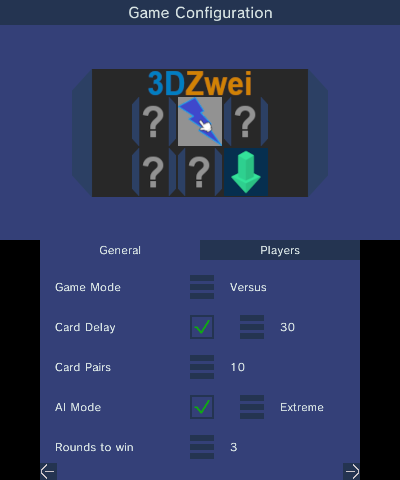
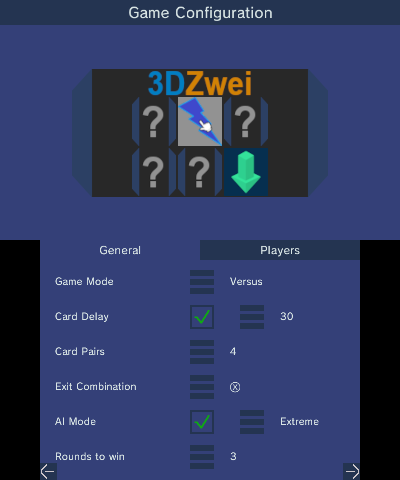
Add ExitOverlay to set a combination to exit the game.
I'm too lazy to add a proper overlay right now, but this SHOULD work as a base.

diff --git a/3ds/source/Overlays/Game/GameSettings.cpp b/3ds/source/Overlays/Game/GameSettings.cpp
@@ -33,6 +33,7 @@
 #include "GameSettings.hpp"
 
 /* Inputs. */
+#include "ExitCombination.hpp"
 #include "Keyboard.hpp"
 #include "Numpad.hpp"
 
@@ -132,6 +133,13 @@ void GameSettings::OK() { this->Done = true; };
 void GameSettings::Cancel() { this->Params.CancelGame = true, this->Done = true; };
 
 
+/* Set the game's exit combination. */
+void GameSettings::SetExitCombi() {
+	std::unique_ptr<ExitCombination> Ovl = std::make_unique<ExitCombination>(this->Params.ExitCombination);
+	this->Params.ExitCombination = Ovl->Action();
+};
+
+
 /*
 	Selects the Character Picture.
 
@@ -218,63 +226,68 @@ void GameSettings::Draw(const bool IsSetting) {
 	/* Only draw General Tab, if the Tab is larger as -320. */
 	if (this->T1Offs > -320) {
 		/* Game Mode. */
-		Gui::DrawString(15 + this->T1Offs, 40 - (Lang::Get("GAME_SETTINGS_GM").length() / 25 * 10 / 2), 0.45f, TEXT_WHITE, Lang::Get("GAME_SETTINGS_GM"), 125, 15, nullptr, C2D_WordWrap);
-		Gui::DrawSprite(GFX::Sprites, sprites_stripe_idx, 150 + this->T1Offs, 35);
+		Gui::DrawString(15 + this->T1Offs, this->GeneralPos[2].Y + 5 - (Lang::Get("GAME_SETTINGS_GM").length() / 25 * 10 / 2), 0.4f, TEXT_WHITE, Lang::Get("GAME_SETTINGS_GM"), 125, 15, nullptr, C2D_WordWrap);
+		Gui::DrawSprite(GFX::Sprites, sprites_stripe_idx, 150 + this->T1Offs, this->GeneralPos[2].Y);
 
 		switch(this->Params.GameMode) {
 			case GameSettings::GameModes::Versus:
-				Gui::DrawString(190 + this->T1Offs, 40, 0.45f, TEXT_WHITE, Lang::Get("GAME_SETTINGS_GM_NORMAL"), 120);
+				Gui::DrawString(190 + this->T1Offs, this->GeneralPos[2].Y + 5, 0.4f, TEXT_WHITE, Lang::Get("GAME_SETTINGS_GM_NORMAL"), 120);
 				break;
 
 			case GameSettings::GameModes::Solo:
-				Gui::DrawString(190 + this->T1Offs, 40, 0.45f, TEXT_WHITE, Lang::Get("GAME_SETTINGS_GM_TRIES"), 120);
+				Gui::DrawString(190 + this->T1Offs, this->GeneralPos[2].Y + 5, 0.4f, TEXT_WHITE, Lang::Get("GAME_SETTINGS_GM_TRIES"), 120);
 				break;
 		};
 
 
 		/* Using Card Delay. */
-		Gui::DrawString(15 + this->T1Offs, 80 - (Lang::Get("GAME_SETTINGS_CARD_DELAY").length() / 25 * 10 / 2), 0.45f, TEXT_WHITE, Lang::Get("GAME_SETTINGS_CARD_DELAY"), 125, 15, nullptr, C2D_WordWrap);
-		GFX::DrawCheckbox(150 + this->T1Offs, 75, this->Params.CardDelayUsed);
+		Gui::DrawString(15 + this->T1Offs, this->GeneralPos[3].Y + 5 - (Lang::Get("GAME_SETTINGS_CARD_DELAY").length() / 25 * 10 / 2), 0.4f, TEXT_WHITE, Lang::Get("GAME_SETTINGS_CARD_DELAY"), 125, 15, nullptr, C2D_WordWrap);
+		GFX::DrawCheckbox(150 + this->T1Offs, this->GeneralPos[3].Y, this->Params.CardDelayUsed);
 
 		/* Card Delay Value. */
 		if (this->Params.CardDelayUsed) { // Only show if Card Delay enabled.
-			Gui::DrawSprite(GFX::Sprites, sprites_stripe_idx, 200 + this->T1Offs, 75);
-			Gui::DrawString(240 + this->T1Offs, 80, 0.45f, TEXT_WHITE, std::to_string(this->Params.CardDelay));
+			Gui::DrawSprite(GFX::Sprites, sprites_stripe_idx, 200 + this->T1Offs, this->GeneralPos[3].Y);
+			Gui::DrawString(240 + this->T1Offs, this->GeneralPos[3].Y + 5, 0.4f, TEXT_WHITE, std::to_string(this->Params.CardDelay));
 		}
 
 		/* Card Pairs. */
-		Gui::DrawString(15 + this->T1Offs, 120 - (Lang::Get("GAME_SETTINGS_CARD_PAIRS").length() / 25 * 10 / 2), 0.45f, TEXT_WHITE, Lang::Get("GAME_SETTINGS_CARD_PAIRS"), 125, 15, nullptr, C2D_WordWrap);
-		Gui::DrawSprite(GFX::Sprites, sprites_stripe_idx, 150 + this->T1Offs, 115);
-		Gui::DrawString(190 + this->T1Offs, 120, 0.45f, TEXT_WHITE, std::to_string(Utils::Cards.size()));
+		Gui::DrawString(15 + this->T1Offs, this->GeneralPos[5].Y + 5 - (Lang::Get("GAME_SETTINGS_CARD_PAIRS").length() / 25 * 10 / 2), 0.4f, TEXT_WHITE, Lang::Get("GAME_SETTINGS_CARD_PAIRS"), 125, 15, nullptr, C2D_WordWrap);
+		Gui::DrawSprite(GFX::Sprites, sprites_stripe_idx, 150 + this->T1Offs, this->GeneralPos[5].Y);
+		Gui::DrawString(190 + this->T1Offs, this->GeneralPos[5].Y + 5, 0.4f, TEXT_WHITE, std::to_string(Utils::Cards.size()));
+
+		/* Exit Combination. */
+		Gui::DrawString(15 + this->T1Offs, this->GeneralPos[6].Y + 5 - (Lang::Get("GAME_SETTINGS_EXIT_COMBINATION").length() / 25 * 10 / 2), 0.4f, TEXT_WHITE, Lang::Get("GAME_SETTINGS_EXIT_COMBINATION"), 125, 15, nullptr, C2D_WordWrap);
+		Gui::DrawSprite(GFX::Sprites, sprites_stripe_idx, 150 + this->T1Offs, this->GeneralPos[6].Y);
+		Gui::DrawString(190 + this->T1Offs, this->GeneralPos[6].Y + 5, 0.45f, TEXT_WHITE, Utils::GetCombiString(this->Params.ExitCombination), 120);
 
 		/* Using AI. */
 		if (this->Params.GameMode == GameSettings::GameModes::Versus) { // Only available in Versus Mode.
-			Gui::DrawString(15 + this->T1Offs, 160 - (Lang::Get("GAME_SETTINGS_AI_METHOD").length() / 25 * 10 / 2), 0.45f, TEXT_WHITE, Lang::Get("GAME_SETTINGS_AI_METHOD"), 125, 15, nullptr, C2D_WordWrap);
-			GFX::DrawCheckbox(150 + this->T1Offs, 155, this->Params.AIUsed);
+			Gui::DrawString(15 + this->T1Offs, this->GeneralPos[7].Y + 5 - (Lang::Get("GAME_SETTINGS_AI_METHOD").length() / 25 * 10 / 2), 0.4f, TEXT_WHITE, Lang::Get("GAME_SETTINGS_AI_METHOD"), 125, 15, nullptr, C2D_WordWrap);
+			GFX::DrawCheckbox(150 + this->T1Offs, this->GeneralPos[7].Y, this->Params.AIUsed);
 
 			/* AI Method. */
 			if (this->Params.AIUsed) { // Only show if AI enabled.
-				Gui::DrawSprite(GFX::Sprites, sprites_stripe_idx, 200 + this->T1Offs, 155);
+				Gui::DrawSprite(GFX::Sprites, sprites_stripe_idx, 200 + this->T1Offs, this->GeneralPos[7].Y);
 
 				switch(this->Params.Method) {
 					case StackMem::AIMethod::Random:
-						Gui::DrawString(240 + this->T1Offs, 160, 0.45f, TEXT_WHITE, Lang::Get("GAME_SETTINGS_AI_RANDOM"), 70);
+						Gui::DrawString(240 + this->T1Offs, this->GeneralPos[7].Y + 5, 0.4f, TEXT_WHITE, Lang::Get("GAME_SETTINGS_AI_RANDOM"), 70);
 						break;
 
 					case StackMem::AIMethod::Hard:
-						Gui::DrawString(240 + this->T1Offs, 160, 0.45f, TEXT_WHITE, Lang::Get("GAME_SETTINGS_AI_HARD"), 70);
+						Gui::DrawString(240 + this->T1Offs, this->GeneralPos[7].Y + 5, 0.4f, TEXT_WHITE, Lang::Get("GAME_SETTINGS_AI_HARD"), 70);
 						break;
 
 					case StackMem::AIMethod::Extreme:
-						Gui::DrawString(240 + this->T1Offs, 160, 0.45f, TEXT_WHITE, Lang::Get("GAME_SETTINGS_AI_EXTREME"), 70);
+						Gui::DrawString(240 + this->T1Offs, this->GeneralPos[7].Y + 5, 0.4f, TEXT_WHITE, Lang::Get("GAME_SETTINGS_AI_EXTREME"), 70);
 						break;
 				};
 			}
 
 			/* Rounds to win Value. */
-			Gui::DrawString(15 + this->T1Offs, 200 - (Lang::Get("GAME_SETTINGS_ROUND_WIN").length() / 25 * 10 / 2), 0.45f, TEXT_WHITE, Lang::Get("GAME_SETTINGS_ROUND_WIN"), 125, 15, nullptr, C2D_WordWrap);
-			Gui::DrawSprite(GFX::Sprites, sprites_stripe_idx, 150 + this->T1Offs, 195);
-			Gui::DrawString(190 + this->T1Offs, 200, 0.45f, TEXT_WHITE, std::to_string(this->Params.RoundsToWin));
+			Gui::DrawString(15 + this->T1Offs, this->GeneralPos[9].Y + 5 - (Lang::Get("GAME_SETTINGS_ROUND_WIN").length() / 25 * 10 / 2), 0.4f, TEXT_WHITE, Lang::Get("GAME_SETTINGS_ROUND_WIN"), 125, 15, nullptr, C2D_WordWrap);
+			Gui::DrawSprite(GFX::Sprites, sprites_stripe_idx, 150 + this->T1Offs, this->GeneralPos[9].Y);
+			Gui::DrawString(190 + this->T1Offs, this->GeneralPos[9].Y + 5, 0.4f, TEXT_WHITE, std::to_string(this->Params.RoundsToWin));
 		};
 	};
 
@@ -322,10 +335,10 @@ void GameSettings::Draw(const bool IsSetting) {
 		}
 	};
 
-	Gui::Draw_Rect(this->GeneralPos[9].X, this->GeneralPos[9].Y, this->GeneralPos[9].W, this->GeneralPos[9].H, BAR_BLUE); // Back.
-	Gui::DrawSprite(GFX::Sprites, sprites_back_btn_idx, this->GeneralPos[9].X, this->GeneralPos[9].Y);
-	Gui::Draw_Rect(this->GeneralPos[10].X, this->GeneralPos[10].Y, this->GeneralPos[10].W, this->GeneralPos[10].H, BAR_BLUE); // Next.
-	Gui::DrawSprite(GFX::Sprites, sprites_next_btn_idx, this->GeneralPos[10].X, this->GeneralPos[10].Y);
+	Gui::Draw_Rect(this->GeneralPos[10].X, this->GeneralPos[10].Y, this->GeneralPos[10].W, this->GeneralPos[10].H, BAR_BLUE); // Back.
+	Gui::DrawSprite(GFX::Sprites, sprites_back_btn_idx, this->GeneralPos[10].X, this->GeneralPos[10].Y);
+	Gui::Draw_Rect(this->GeneralPos[11].X, this->GeneralPos[11].Y, this->GeneralPos[11].W, this->GeneralPos[11].H, BAR_BLUE); // Next.
+	Gui::DrawSprite(GFX::Sprites, sprites_next_btn_idx, this->GeneralPos[11].X, this->GeneralPos[11].Y);
 	Pointer::Draw();
 
 	if (_3DZwei::CFG->DoAnimation() && _3DZwei::CFG->DoFade()) {

diff --git a/3ds/include/Overlays/Game/GameSettings.hpp b/3ds/include/Overlays/Game/GameSettings.hpp
@@ -52,6 +52,7 @@ public:
 		size_t Tries = 0; // Amount of tries.
 		RoundStarter Starter = RoundStarter::Player1; // The Round Starter of the game.
 		bool CancelGame = false; // If Game should be cancelled or not.
+		uint32_t ExitCombination = 0x0; // Exit the game with this combination.
 	};
 
 	GameSettings(const GameParams &Defaults, const bool IsSetting = false);
@@ -88,6 +89,7 @@ private:
 	void SelectCards();
 	void SetCardDelay();
 	void SetWinRounds();
+	void SetExitCombi();
 
 	/* Player Tab operations. */
 	void SetName(const bool AI);
@@ -99,17 +101,19 @@ private:
 		{ 0, 0, 160, 20, [this]() { this->GeneralTab(); } },
 		{ 160, 0, 160, 20, [this]() { this->PlayerTab(); } },
 
-		{ 150, 35, 24, 24, [this]() { this->ToggleGameMode(); } },
+		{ 150, 30, 24, 24, [this]() { this->ToggleGameMode(); } },
 
-		{ 150, 75, 24, 24, [this]() { this->ToggleDelay(); } },
-		{ 200, 75, 24, 24, [this]() { this->SetCardDelay(); } },
+		{ 150, 65, 24, 24, [this]() { this->ToggleDelay(); } },
+		{ 200, 65, 24, 24, [this]() { this->SetCardDelay(); } },
 
-		{ 150, 115, 24, 24, [this]() { this->SelectCards(); } },
+		{ 150, 100, 24, 24, [this]() { this->SelectCards(); } },
 
-		{ 150, 155, 24, 24, [this]() { this->ToggleAI(); } },
-		{ 200, 155, 24, 24, [this]() { this->SelectAIMethod(); } },
+		{ 150, 135, 24, 24, [this]() { this->SetExitCombi(); } },
 
-		{ 150, 195, 24, 24, [this]() { this->SetWinRounds(); } },
+		{ 150, 170, 24, 24, [this]() { this->ToggleAI(); } },
+		{ 200, 170, 24, 24, [this]() { this->SelectAIMethod(); } },
+
+		{ 150, 205, 24, 24, [this]() { this->SetWinRounds(); } },
 
 		{ 0, 223, 17, 17, [this]() { this->Cancel(); } },
 		{ 303, 223, 17, 17, [this]() { this->OK(); } }

diff --git a/3ds/source/Overlays/Inputs/ExitCombination.cpp b/3ds/source/Overlays/Inputs/ExitCombination.cpp
@@ -24,24 +24,29 @@
 *         reasonable ways as different from the original version.
 */
 
-#ifndef _3DZWEI_UTILS_HPP
-#define _3DZWEI_UTILS_HPP
+#include "Common.hpp"
+#include "ExitCombination.hpp"
+#include "Utils.hpp"
 
-#include <vector>
+uint32_t ExitCombination::Action() {
+	while(aptMainLoop() && !Done) {
+		C2D_TargetClear(Top, C2D_Color32(0, 0, 0, 0));
+		C2D_TargetClear(Bottom, C2D_Color32(0, 0, 0, 0));
+		Gui::clearTextBufs();
+		C3D_FrameBegin(C3D_FRAME_SYNCDRAW);
+		GFX::DrawTop();
+		Gui::DrawStringCentered(0, 3, 0.6f, TEXT_WHITE, Lang::Get("EXIT_COMBINATION_TITLE"), 395);
+		Gui::Draw_Rect(0, 215, 400, 25, BAR_BLUE);
+		Gui::DrawStringCentered(0, 218, 0.6f, TEXT_WHITE, Lang::Get("EXIT_COMBINATION_TEXT") + Utils::GetCombiString(this->Res), 395);
+		Gui::DrawSprite(GFX::Sprites, sprites_logo_idx, 72, 57);
+		GFX::DrawBottom();
+		C3D_FrameEnd(0);
 
-namespace Utils {
-	extern std::vector<size_t> Cards;
+		hidScanInput();
+		this->Res = hidKeysHeld();
+		this->Delay--;
+		if (this->Delay == 0) this->Done = true;
+	}
 
-	void InitCards(const bool Init = false);
-	void InitNewCardSheet();
-	size_t GetCardSheetSize();
-	size_t GetCharSheetSize();
-
-	bool CheckSetContent(const std::string &Set, const bool CheckChars = false);
-	void LoadCardSet(const std::string &Set);
-	void LoadCharSet(const std::string &Set);
-
-	std::string GetCombiString(const uint32_t Combi);
+	return this->Res;
 };
-
-#endif

diff --git a/3ds/source/Utils/Config.cpp b/3ds/source/Utils/Config.cpp
@@ -160,6 +160,12 @@ void Config::FetchDefaults() {
 				if (Res > 0 && Res < 256) this->VDefaultParams.RoundsToWin = Res; // Exist, 1 and 255 -> Good.
 			};
 
+			/* Exit combination for the game. */
+			if (this->CFG["GameDefaults"].contains("ExitCombination") && this->CFG["GameDefaults"]["ExitCombination"].is_number()) {
+				const int Res = this->CFG["GameDefaults"]["ExitCombination"];
+				this->VDefaultParams.ExitCombination = Res;
+			};
+
 			/* First character index. */
 			if (this->CFG["GameDefaults"].contains("Player1Idx") && this->CFG["GameDefaults"]["Player1Idx"].is_number()) {
 				const int Res = this->CFG["GameDefaults"]["Player1Idx"];
@@ -225,6 +231,7 @@ void Config::SetDefault(const GameSettings::GameParams &Defaults) {
 		};
 
 		if (Defaults.RoundsToWin > 0) this->CFG["GameDefaults"]["RoundsToWin"] = Defaults.RoundsToWin; // Rounds needed to win the game.
+		this->CFG["GameDefaults"]["ExitCombination"] = Defaults.ExitCombination; // Exit combination for the game.
 		this->CFG["GameDefaults"]["Player1Idx"] = Defaults.Characters[0]; // First character image index.
 		this->CFG["GameDefaults"]["Player2Idx"] = Defaults.Characters[1]; // Second character image index.
 		this->CFG["GameDefaults"]["Player1Name"] = Defaults.Names[0]; // First player name.

diff --git a/3ds/source/Utils/Utils.cpp b/3ds/source/Utils/Utils.cpp
@@ -169,3 +169,34 @@ void Utils::LoadCharSet(const std::string &Set) {
 		}
 	}
 };
+
+
+/*
+	Print out the combination of keys from an uint32_t.
+
+	const uint32_t Combi: The combination to return as a string.
+*/
+std::string Utils::GetCombiString(const uint32_t Combi) {
+	std::string CombiString = "";
+
+	if (Combi & KEY_DOWN) CombiString += "\uE07A, ";
+	if (Combi & KEY_RIGHT) CombiString += "\uE07C, ";
+	if (Combi & KEY_UP) CombiString += "\uE079, ";
+	if (Combi & KEY_LEFT) CombiString += "\uE07B, ";
+	if (Combi & KEY_A) CombiString += "\uE000, ";
+	if (Combi & KEY_B) CombiString += "\uE001, ";
+	if (Combi & KEY_X) CombiString += "\uE002, ";
+	if (Combi & KEY_Y) CombiString += "\uE003, ";
+	if (Combi & KEY_START) CombiString += "\uE045, ";
+	if (Combi & KEY_SELECT) CombiString += "\uE046, ";
+	if (Combi & KEY_L) CombiString += "\uE052, ";
+	if (Combi & KEY_R) CombiString += "\uE053, ";
+	if (Combi & KEY_ZL) CombiString += "\uE054, ";
+	if (Combi & KEY_ZR) CombiString += "\uE055";
+
+	if (CombiString[CombiString.size() - 2] == ',' && CombiString[CombiString.size() - 1] == ' ') {
+		CombiString.pop_back(); CombiString.pop_back(); // Remove last two.
+	};
+
+	return CombiString;
+};

diff --git a/3ds/include/Overlays/Inputs/ExitCombination.hpp b/3ds/include/Overlays/Inputs/ExitCombination.hpp
@@ -24,24 +24,18 @@
 *         reasonable ways as different from the original version.
 */
 
-#ifndef _3DZWEI_UTILS_HPP
-#define _3DZWEI_UTILS_HPP
+#ifndef _3DZWEI_EXIT_COMBINATION_HPP
+#define _3DZWEI_EXIT_COMBINATION_HPP
 
-#include <vector>
+#include <string>
 
-namespace Utils {
-	extern std::vector<size_t> Cards;
-
-	void InitCards(const bool Init = false);
-	void InitNewCardSheet();
-	size_t GetCardSheetSize();
-	size_t GetCharSheetSize();
-
-	bool CheckSetContent(const std::string &Set, const bool CheckChars = false);
-	void LoadCardSet(const std::string &Set);
-	void LoadCharSet(const std::string &Set);
-
-	std::string GetCombiString(const uint32_t Combi);
+class ExitCombination {
+public:
+	ExitCombination(const uint32_t OldCombi) : Res(OldCombi) { };
+	uint32_t Action();
+private:
+	uint32_t Res = 0x0, Delay = 150;
+	bool Done = false;
 };
 
 #endif

diff --git a/3ds/source/Overlays/Game/GameOverlay.cpp b/3ds/source/Overlays/Game/GameOverlay.cpp
@@ -84,5 +84,11 @@ void GameOverlay::Action() {
 				this->Helper->StartGame(true, { }, State == GameHelper::LogicState::P2Won);
 			}
 		}
+
+		if (this->Helper->ReturnParams().ExitCombination != 0x0) {
+			if (Down == this->Helper->ReturnParams().ExitCombination) {
+				this->Running = false;
+			}
+		}
 	};
 };

diff --git a/README.md b/README.md
@@ -41,6 +41,9 @@ This is a more improved version of the Hard Method. It already does the thing wh
 ### Credits
 ![](https://github.com/Universal-Team/3DZwei/blob/master/resources/screenshots/creditsContributors.png) ![](https://github.com/Universal-Team/3DZwei/blob/master/resources/screenshots/creditsStackMemCore.png) ![](https://github.com/Universal-Team/3DZwei/blob/master/resources/screenshots/creditsUniversalCore.png) ![](https://github.com/Universal-Team/3DZwei/blob/master/resources/screenshots/creditsTranslators1.png) ![](https://github.com/Universal-Team/3DZwei/blob/master/resources/screenshots/creditsTranslators2.png) ![](https://github.com/Universal-Team/3DZwei/blob/master/resources/screenshots/creditsTranslators3.png) ![](https://github.com/Universal-Team/3DZwei/blob/master/resources/screenshots/creditsSpecialThanks.png)
 
+### Exit Overlay
+![](https://github.com/Universal-Team/3DZwei/blob/master/resources/screenshots/exitOverlay.png)
+
 ### Game Result
 ![](https://github.com/Universal-Team/3DZwei/blob/master/resources/screenshots/gameResult.png)
 
